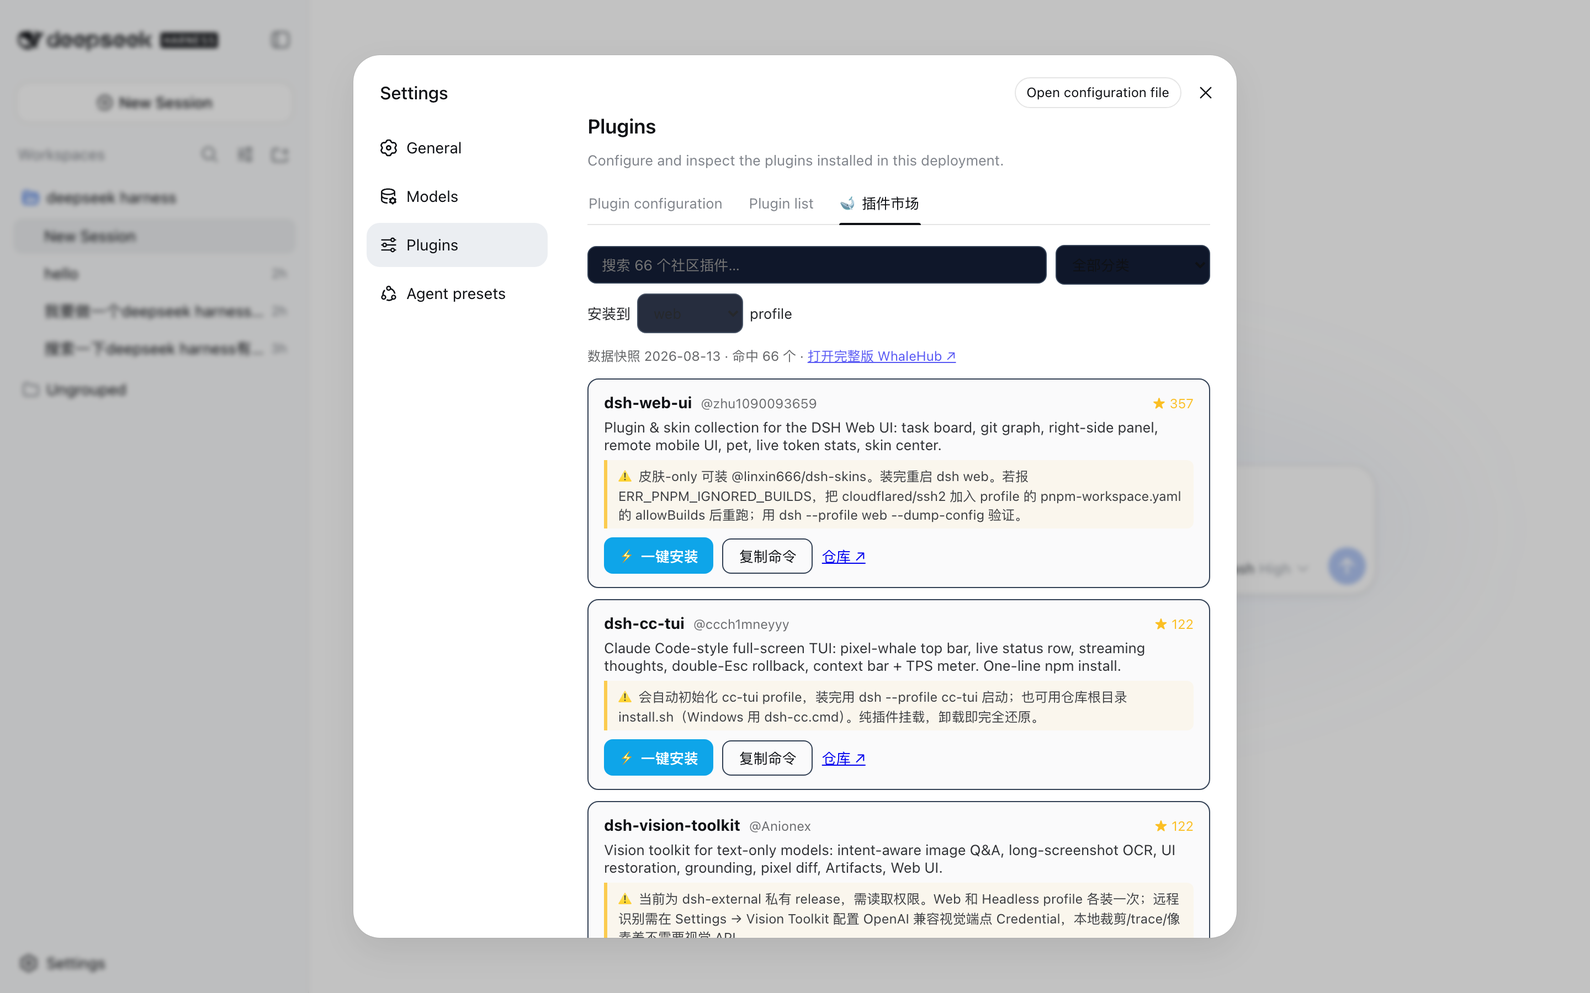
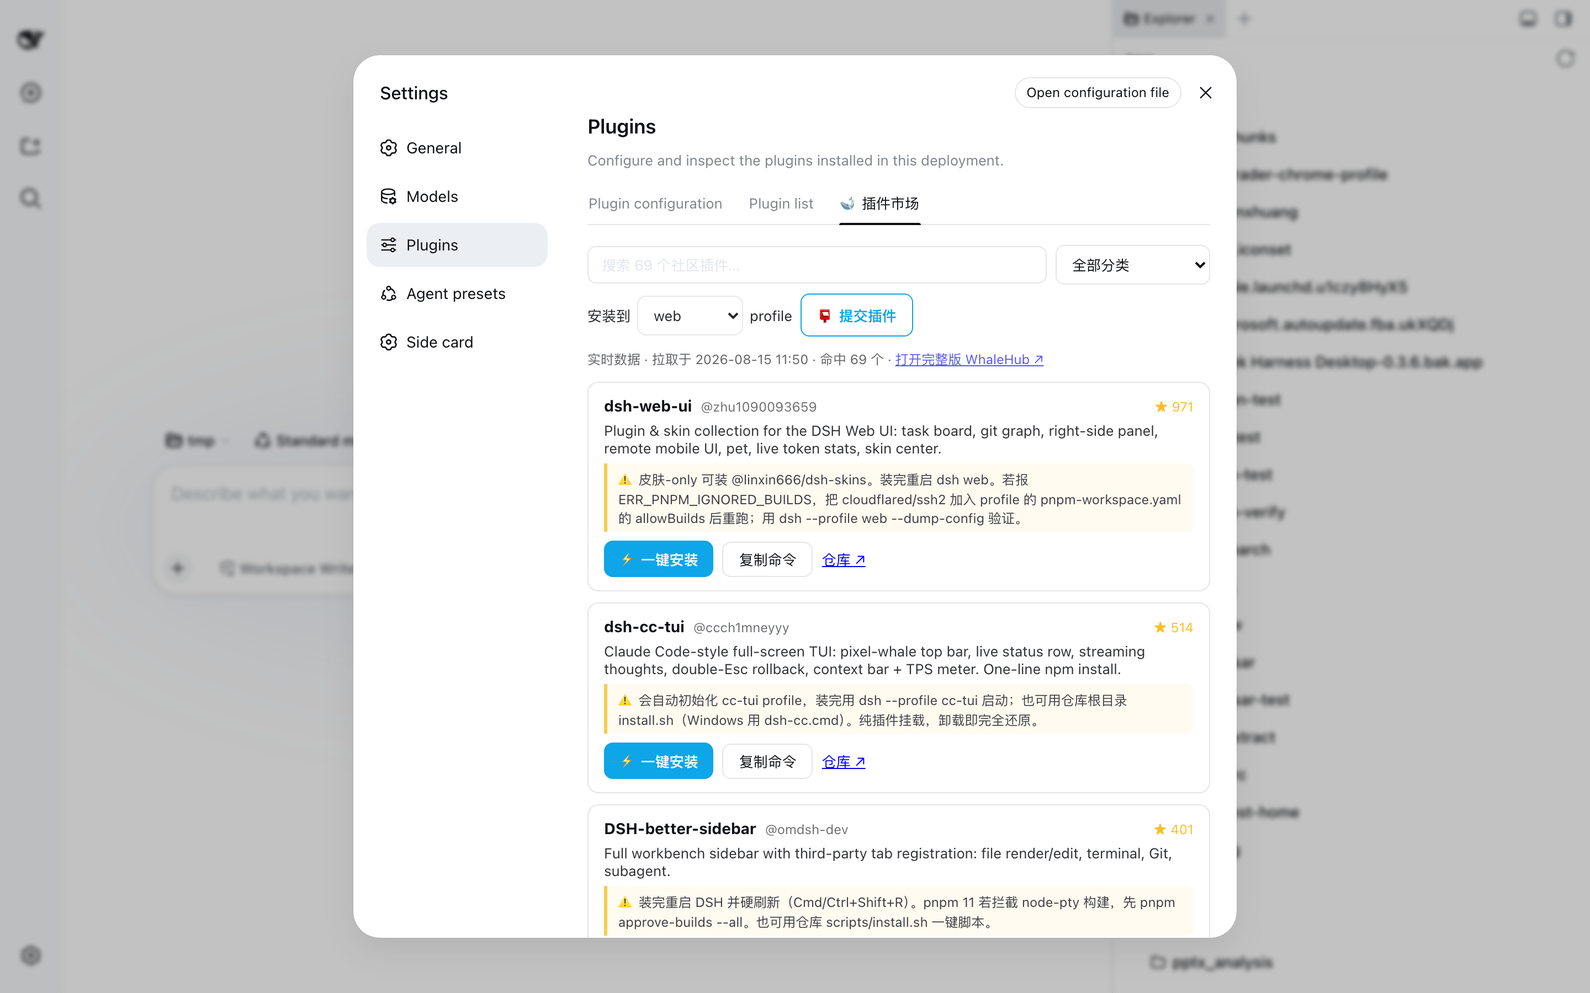
fix(plugin): 市场 Tab 适配 dsh web 明暗主题——颜色改用 --dsw-alias-* 设计令牌，更新市场截图

diff --git a/plugin/lib/client-registry.js b/plugin/lib/client-registry.js
@@ -431,7 +431,7 @@ window.__ModuleLoader__.load({
 		}
 		//#endregion
 		//#region \0whalehub-css:/Users/nxhuang/Documents/Project/kimi with paseo/whalehub-dsh/plugin/src/client/market.css.mjs
-		const css = ".whalehub-market { display: flex; flex-direction: column; gap: 12px; padding: 4px 0; font-size: 14px; }\n.whalehub-loading, .whalehub-error { padding: 24px 8px; opacity: 0.8; }\n.whalehub-toolbar { display: flex; gap: 8px; flex-wrap: wrap; align-items: center; }\n.whalehub-search {\n  flex: 1; min-width: 220px; padding: 8px 12px; border-radius: 8px;\n  border: 1px solid var(--dsh-border, #334155); background: var(--dsh-bg-soft, #0f172a);\n  color: inherit; font-size: 13px;\n}\n.whalehub-toolbar select {\n  padding: 8px 10px; border-radius: 8px; border: 1px solid var(--dsh-border, #334155);\n  background: var(--dsh-bg-soft, #0f172a); color: inherit; font-size: 13px;\n}\n.whalehub-profile { display: flex; gap: 6px; align-items: center; font-size: 13px; opacity: 0.9; }\n.whalehub-meta { margin: 0; font-size: 12px; opacity: 0.65; }\n.whalehub-list { display: flex; flex-direction: column; gap: 10px; }\n.whalehub-card {\n  border: 1px solid var(--dsh-border, #334155); border-radius: 10px;\n  padding: 12px 14px; display: flex; flex-direction: column; gap: 6px;\n  background: var(--dsh-bg-card, rgba(148, 163, 184, 0.05));\n}\n.whalehub-card-head { display: flex; gap: 8px; align-items: baseline; }\n.whalehub-author { font-size: 12px; opacity: 0.6; flex: 1; }\n.whalehub-stars { font-size: 12px; color: #fbbf24; }\n.whalehub-desc { margin: 0; font-size: 13px; opacity: 0.85; }\n.whalehub-notes {\n  margin: 0; font-size: 12px; opacity: 0.8; border-left: 3px solid #fbbf24;\n  padding: 4px 10px; background: rgba(251, 191, 36, 0.08); border-radius: 0 6px 6px 0;\n}\n.whalehub-actions { display: flex; gap: 8px; align-items: center; margin-top: 2px; }\n.whalehub-actions button {\n  padding: 6px 14px; border-radius: 8px; border: none; cursor: pointer;\n  background: #0ea5e9; color: #fff; font-size: 13px; font-weight: 600;\n}\n.whalehub-actions button:disabled { opacity: 0.6; cursor: wait; }\n.whalehub-actions button.whalehub-copy {\n  background: transparent; border: 1px solid var(--dsh-border, #334155); color: inherit; font-weight: 400;\n}\n.whalehub-actions a { font-size: 13px; }\n.whalehub-ok { margin: 0; font-size: 12.5px; color: #34d399; }\n.whalehub-fail {\n  margin: 0; font-size: 12px; color: #f87171; white-space: pre-wrap; word-break: break-all;\n  max-height: 160px; overflow: auto; background: rgba(0,0,0,0.25); padding: 8px; border-radius: 6px;\n}\n\n/* 📮 提交插件按钮 + 规则弹窗 */\n.whalehub-submit {\n  padding: 8px 14px; border-radius: 8px; cursor: pointer; font-size: 13px; font-weight: 600;\n  border: 1px solid #0ea5e9; background: transparent; color: #0ea5e9;\n}\n.whalehub-modal-mask {\n  position: fixed; inset: 0; z-index: 1000; background: rgba(2, 6, 23, 0.6);\n  display: flex; align-items: center; justify-content: center; padding: 24px;\n}\n.whalehub-modal {\n  width: min(560px, 100%); max-height: 80vh; overflow: auto; border-radius: 12px;\n  border: 1px solid var(--dsh-border, #334155); background: var(--dsh-bg, #1e293b);\n  padding: 16px 20px; box-shadow: 0 20px 50px rgba(0, 0, 0, 0.45);\n}\n.whalehub-modal-head {\n  display: flex; align-items: center; justify-content: space-between;\n  font-size: 15px; margin-bottom: 8px;\n}\n.whalehub-modal-close {\n  border: none; background: transparent; color: inherit; cursor: pointer;\n  font-size: 14px; opacity: 0.7; padding: 4px 8px;\n}\n.whalehub-modal-close:hover { opacity: 1; }\n.whalehub-modal-body { font-size: 13px; line-height: 1.6; }\n.whalehub-modal-body h4 { margin: 14px 0 6px; font-size: 13.5px; }\n.whalehub-modal-body ol, .whalehub-modal-body ul { margin: 4px 0; padding-left: 22px; }\n.whalehub-modal-body p { margin: 6px 0; }\n.whalehub-modal-meta { font-size: 12px; opacity: 0.65; margin-top: 14px; }\n.whalehub-modal-loading, .whalehub-modal-error { padding: 16px 0; font-size: 13px; opacity: 0.85; }\n.whalehub-modal-error { color: #f87171; }\n\n/* 安装成功后的重启提示条 */\n.whalehub-restart-bar {\n  display: flex; gap: 10px; align-items: center; flex-wrap: wrap;\n  border: 1px solid rgba(52, 211, 153, 0.4); border-radius: 10px;\n  background: rgba(52, 211, 153, 0.08); padding: 10px 14px; font-size: 13px;\n}\n.whalehub-restart-bar button {\n  padding: 6px 14px; border-radius: 8px; border: none; cursor: pointer;\n  background: #34d399; color: #052e1b; font-size: 13px; font-weight: 600;\n}\n.whalehub-restart-bar button.whalehub-later {\n  background: transparent; border: 1px solid var(--dsh-border, #334155);\n  color: inherit; font-weight: 400;\n}\n";
+		const css = "/* WhaleHub 市场 Tab 样式。\n * 颜色全部走 dsh web 的设计令牌（--dsw-alias-*，定义在 body / body[data-ds-dark-theme] 上），\n * 明/暗主题自动跟随；变量缺失时的兜底值按亮色取（dsh web 默认主题为亮）。 */\n.whalehub-market { display: flex; flex-direction: column; gap: 12px; padding: 4px 0; font-size: 14px; }\n.whalehub-loading, .whalehub-error { padding: 24px 8px; opacity: 0.8; }\n.whalehub-toolbar { display: flex; gap: 8px; flex-wrap: wrap; align-items: center; }\n.whalehub-search {\n  flex: 1; min-width: 220px; padding: 8px 12px; border-radius: 8px;\n  border: 1px solid var(--dsw-alias-border-l2, #cbd5e1);\n  background: var(--dsw-alias-bg-layer-1, #ffffff);\n  color: var(--dsw-alias-label-primary, inherit); font-size: 13px;\n}\n.whalehub-search::placeholder { color: var(--dsw-alias-label-dimmed, #94a3b8); }\n.whalehub-toolbar select {\n  padding: 8px 10px; border-radius: 8px;\n  border: 1px solid var(--dsw-alias-border-l2, #cbd5e1);\n  background: var(--dsw-alias-bg-layer-1, #ffffff);\n  color: var(--dsw-alias-label-primary, inherit); font-size: 13px;\n}\n.whalehub-profile { display: flex; gap: 6px; align-items: center; font-size: 13px; opacity: 0.9; }\n.whalehub-meta { margin: 0; font-size: 12px; opacity: 0.65; }\n.whalehub-list { display: flex; flex-direction: column; gap: 10px; }\n.whalehub-card {\n  border: 1px solid var(--dsw-alias-border-l2, #e2e8f0); border-radius: 10px;\n  padding: 12px 14px; display: flex; flex-direction: column; gap: 6px;\n  background: var(--dsw-alias-bg-layer-1, #ffffff);\n}\n.whalehub-card-head { display: flex; gap: 8px; align-items: baseline; }\n.whalehub-author { font-size: 12px; opacity: 0.6; flex: 1; }\n.whalehub-stars { font-size: 12px; color: #fbbf24; }\n.whalehub-desc { margin: 0; font-size: 13px; opacity: 0.85; }\n.whalehub-notes {\n  margin: 0; font-size: 12px; opacity: 0.8; border-left: 3px solid #fbbf24;\n  padding: 4px 10px; background: rgba(251, 191, 36, 0.08); border-radius: 0 6px 6px 0;\n}\n.whalehub-actions { display: flex; gap: 8px; align-items: center; margin-top: 2px; }\n.whalehub-actions button {\n  padding: 6px 14px; border-radius: 8px; border: none; cursor: pointer;\n  background: #0ea5e9; color: #fff; font-size: 13px; font-weight: 600;\n}\n.whalehub-actions button:disabled { opacity: 0.6; cursor: wait; }\n.whalehub-actions button.whalehub-copy {\n  background: transparent; border: 1px solid var(--dsw-alias-border-l2, #cbd5e1);\n  color: var(--dsw-alias-label-primary, inherit); font-weight: 400;\n}\n.whalehub-actions a { font-size: 13px; }\n.whalehub-ok { margin: 0; font-size: 12.5px; color: #34d399; }\n.whalehub-fail {\n  margin: 0; font-size: 12px; color: #f87171; white-space: pre-wrap; word-break: break-all;\n  max-height: 160px; overflow: auto; padding: 8px; border-radius: 6px;\n  background: var(--dsw-alias-bg-base, #f1f5f9);\n  border: 1px solid var(--dsw-alias-border-l2, #e2e8f0);\n}\n\n/* 📮 提交插件按钮 + 规则弹窗 */\n.whalehub-submit {\n  padding: 8px 14px; border-radius: 8px; cursor: pointer; font-size: 13px; font-weight: 600;\n  border: 1px solid #0ea5e9; background: transparent; color: #0ea5e9;\n}\n.whalehub-modal-mask {\n  position: fixed; inset: 0; z-index: 1000; background: rgba(2, 6, 23, 0.6);\n  display: flex; align-items: center; justify-content: center; padding: 24px;\n}\n.whalehub-modal {\n  width: min(560px, 100%); max-height: 80vh; overflow: auto; border-radius: 12px;\n  border: 1px solid var(--dsw-alias-border-l2, #e2e8f0);\n  background: var(--dsw-alias-bg-layer-2, #ffffff);\n  color: var(--dsw-alias-label-primary, inherit);\n  padding: 16px 20px; box-shadow: 0 20px 50px rgba(0, 0, 0, 0.25);\n}\n.whalehub-modal-head {\n  display: flex; align-items: center; justify-content: space-between;\n  font-size: 15px; margin-bottom: 8px;\n}\n.whalehub-modal-close {\n  border: none; background: transparent; color: inherit; cursor: pointer;\n  font-size: 14px; opacity: 0.7; padding: 4px 8px;\n}\n.whalehub-modal-close:hover { opacity: 1; }\n.whalehub-modal-body { font-size: 13px; line-height: 1.6; }\n.whalehub-modal-body h4 { margin: 14px 0 6px; font-size: 13.5px; }\n.whalehub-modal-body ol, .whalehub-modal-body ul { margin: 4px 0; padding-left: 22px; }\n.whalehub-modal-body p { margin: 6px 0; }\n.whalehub-modal-meta { font-size: 12px; opacity: 0.65; margin-top: 14px; }\n.whalehub-modal-loading, .whalehub-modal-error { padding: 16px 0; font-size: 13px; opacity: 0.85; }\n.whalehub-modal-error { color: #f87171; }\n\n/* 安装成功后的重启提示条 */\n.whalehub-restart-bar {\n  display: flex; gap: 10px; align-items: center; flex-wrap: wrap;\n  border: 1px solid rgba(52, 211, 153, 0.4); border-radius: 10px;\n  background: rgba(52, 211, 153, 0.08); padding: 10px 14px; font-size: 13px;\n}\n.whalehub-restart-bar button {\n  padding: 6px 14px; border-radius: 8px; border: none; cursor: pointer;\n  background: #34d399; color: #052e1b; font-size: 13px; font-weight: 600;\n}\n.whalehub-restart-bar button.whalehub-later {\n  background: transparent; border: 1px solid var(--dsw-alias-border-l2, #cbd5e1);\n  color: var(--dsw-alias-label-primary, inherit); font-weight: 400;\n}\n";
 		if (typeof document !== "undefined" && !document.querySelector("style[data-plugin-css=\"vvlife/whalehub-market/market.css\"]")) {
 			const tag = document.createElement("style");
 			tag.dataset.pluginCss = "vvlife/whalehub-market/market.css";

diff --git a/plugin/lib/client.js b/plugin/lib/client.js
@@ -431,7 +431,7 @@ window.__ModuleLoader__.load({
 		}
 		//#endregion
 		//#region \0whalehub-css:/Users/nxhuang/Documents/Project/kimi with paseo/whalehub-dsh/plugin/src/client/market.css.mjs
-		const css = ".whalehub-market { display: flex; flex-direction: column; gap: 12px; padding: 4px 0; font-size: 14px; }\n.whalehub-loading, .whalehub-error { padding: 24px 8px; opacity: 0.8; }\n.whalehub-toolbar { display: flex; gap: 8px; flex-wrap: wrap; align-items: center; }\n.whalehub-search {\n  flex: 1; min-width: 220px; padding: 8px 12px; border-radius: 8px;\n  border: 1px solid var(--dsh-border, #334155); background: var(--dsh-bg-soft, #0f172a);\n  color: inherit; font-size: 13px;\n}\n.whalehub-toolbar select {\n  padding: 8px 10px; border-radius: 8px; border: 1px solid var(--dsh-border, #334155);\n  background: var(--dsh-bg-soft, #0f172a); color: inherit; font-size: 13px;\n}\n.whalehub-profile { display: flex; gap: 6px; align-items: center; font-size: 13px; opacity: 0.9; }\n.whalehub-meta { margin: 0; font-size: 12px; opacity: 0.65; }\n.whalehub-list { display: flex; flex-direction: column; gap: 10px; }\n.whalehub-card {\n  border: 1px solid var(--dsh-border, #334155); border-radius: 10px;\n  padding: 12px 14px; display: flex; flex-direction: column; gap: 6px;\n  background: var(--dsh-bg-card, rgba(148, 163, 184, 0.05));\n}\n.whalehub-card-head { display: flex; gap: 8px; align-items: baseline; }\n.whalehub-author { font-size: 12px; opacity: 0.6; flex: 1; }\n.whalehub-stars { font-size: 12px; color: #fbbf24; }\n.whalehub-desc { margin: 0; font-size: 13px; opacity: 0.85; }\n.whalehub-notes {\n  margin: 0; font-size: 12px; opacity: 0.8; border-left: 3px solid #fbbf24;\n  padding: 4px 10px; background: rgba(251, 191, 36, 0.08); border-radius: 0 6px 6px 0;\n}\n.whalehub-actions { display: flex; gap: 8px; align-items: center; margin-top: 2px; }\n.whalehub-actions button {\n  padding: 6px 14px; border-radius: 8px; border: none; cursor: pointer;\n  background: #0ea5e9; color: #fff; font-size: 13px; font-weight: 600;\n}\n.whalehub-actions button:disabled { opacity: 0.6; cursor: wait; }\n.whalehub-actions button.whalehub-copy {\n  background: transparent; border: 1px solid var(--dsh-border, #334155); color: inherit; font-weight: 400;\n}\n.whalehub-actions a { font-size: 13px; }\n.whalehub-ok { margin: 0; font-size: 12.5px; color: #34d399; }\n.whalehub-fail {\n  margin: 0; font-size: 12px; color: #f87171; white-space: pre-wrap; word-break: break-all;\n  max-height: 160px; overflow: auto; background: rgba(0,0,0,0.25); padding: 8px; border-radius: 6px;\n}\n\n/* 📮 提交插件按钮 + 规则弹窗 */\n.whalehub-submit {\n  padding: 8px 14px; border-radius: 8px; cursor: pointer; font-size: 13px; font-weight: 600;\n  border: 1px solid #0ea5e9; background: transparent; color: #0ea5e9;\n}\n.whalehub-modal-mask {\n  position: fixed; inset: 0; z-index: 1000; background: rgba(2, 6, 23, 0.6);\n  display: flex; align-items: center; justify-content: center; padding: 24px;\n}\n.whalehub-modal {\n  width: min(560px, 100%); max-height: 80vh; overflow: auto; border-radius: 12px;\n  border: 1px solid var(--dsh-border, #334155); background: var(--dsh-bg, #1e293b);\n  padding: 16px 20px; box-shadow: 0 20px 50px rgba(0, 0, 0, 0.45);\n}\n.whalehub-modal-head {\n  display: flex; align-items: center; justify-content: space-between;\n  font-size: 15px; margin-bottom: 8px;\n}\n.whalehub-modal-close {\n  border: none; background: transparent; color: inherit; cursor: pointer;\n  font-size: 14px; opacity: 0.7; padding: 4px 8px;\n}\n.whalehub-modal-close:hover { opacity: 1; }\n.whalehub-modal-body { font-size: 13px; line-height: 1.6; }\n.whalehub-modal-body h4 { margin: 14px 0 6px; font-size: 13.5px; }\n.whalehub-modal-body ol, .whalehub-modal-body ul { margin: 4px 0; padding-left: 22px; }\n.whalehub-modal-body p { margin: 6px 0; }\n.whalehub-modal-meta { font-size: 12px; opacity: 0.65; margin-top: 14px; }\n.whalehub-modal-loading, .whalehub-modal-error { padding: 16px 0; font-size: 13px; opacity: 0.85; }\n.whalehub-modal-error { color: #f87171; }\n\n/* 安装成功后的重启提示条 */\n.whalehub-restart-bar {\n  display: flex; gap: 10px; align-items: center; flex-wrap: wrap;\n  border: 1px solid rgba(52, 211, 153, 0.4); border-radius: 10px;\n  background: rgba(52, 211, 153, 0.08); padding: 10px 14px; font-size: 13px;\n}\n.whalehub-restart-bar button {\n  padding: 6px 14px; border-radius: 8px; border: none; cursor: pointer;\n  background: #34d399; color: #052e1b; font-size: 13px; font-weight: 600;\n}\n.whalehub-restart-bar button.whalehub-later {\n  background: transparent; border: 1px solid var(--dsh-border, #334155);\n  color: inherit; font-weight: 400;\n}\n";
+		const css = "/* WhaleHub 市场 Tab 样式。\n * 颜色全部走 dsh web 的设计令牌（--dsw-alias-*，定义在 body / body[data-ds-dark-theme] 上），\n * 明/暗主题自动跟随；变量缺失时的兜底值按亮色取（dsh web 默认主题为亮）。 */\n.whalehub-market { display: flex; flex-direction: column; gap: 12px; padding: 4px 0; font-size: 14px; }\n.whalehub-loading, .whalehub-error { padding: 24px 8px; opacity: 0.8; }\n.whalehub-toolbar { display: flex; gap: 8px; flex-wrap: wrap; align-items: center; }\n.whalehub-search {\n  flex: 1; min-width: 220px; padding: 8px 12px; border-radius: 8px;\n  border: 1px solid var(--dsw-alias-border-l2, #cbd5e1);\n  background: var(--dsw-alias-bg-layer-1, #ffffff);\n  color: var(--dsw-alias-label-primary, inherit); font-size: 13px;\n}\n.whalehub-search::placeholder { color: var(--dsw-alias-label-dimmed, #94a3b8); }\n.whalehub-toolbar select {\n  padding: 8px 10px; border-radius: 8px;\n  border: 1px solid var(--dsw-alias-border-l2, #cbd5e1);\n  background: var(--dsw-alias-bg-layer-1, #ffffff);\n  color: var(--dsw-alias-label-primary, inherit); font-size: 13px;\n}\n.whalehub-profile { display: flex; gap: 6px; align-items: center; font-size: 13px; opacity: 0.9; }\n.whalehub-meta { margin: 0; font-size: 12px; opacity: 0.65; }\n.whalehub-list { display: flex; flex-direction: column; gap: 10px; }\n.whalehub-card {\n  border: 1px solid var(--dsw-alias-border-l2, #e2e8f0); border-radius: 10px;\n  padding: 12px 14px; display: flex; flex-direction: column; gap: 6px;\n  background: var(--dsw-alias-bg-layer-1, #ffffff);\n}\n.whalehub-card-head { display: flex; gap: 8px; align-items: baseline; }\n.whalehub-author { font-size: 12px; opacity: 0.6; flex: 1; }\n.whalehub-stars { font-size: 12px; color: #fbbf24; }\n.whalehub-desc { margin: 0; font-size: 13px; opacity: 0.85; }\n.whalehub-notes {\n  margin: 0; font-size: 12px; opacity: 0.8; border-left: 3px solid #fbbf24;\n  padding: 4px 10px; background: rgba(251, 191, 36, 0.08); border-radius: 0 6px 6px 0;\n}\n.whalehub-actions { display: flex; gap: 8px; align-items: center; margin-top: 2px; }\n.whalehub-actions button {\n  padding: 6px 14px; border-radius: 8px; border: none; cursor: pointer;\n  background: #0ea5e9; color: #fff; font-size: 13px; font-weight: 600;\n}\n.whalehub-actions button:disabled { opacity: 0.6; cursor: wait; }\n.whalehub-actions button.whalehub-copy {\n  background: transparent; border: 1px solid var(--dsw-alias-border-l2, #cbd5e1);\n  color: var(--dsw-alias-label-primary, inherit); font-weight: 400;\n}\n.whalehub-actions a { font-size: 13px; }\n.whalehub-ok { margin: 0; font-size: 12.5px; color: #34d399; }\n.whalehub-fail {\n  margin: 0; font-size: 12px; color: #f87171; white-space: pre-wrap; word-break: break-all;\n  max-height: 160px; overflow: auto; padding: 8px; border-radius: 6px;\n  background: var(--dsw-alias-bg-base, #f1f5f9);\n  border: 1px solid var(--dsw-alias-border-l2, #e2e8f0);\n}\n\n/* 📮 提交插件按钮 + 规则弹窗 */\n.whalehub-submit {\n  padding: 8px 14px; border-radius: 8px; cursor: pointer; font-size: 13px; font-weight: 600;\n  border: 1px solid #0ea5e9; background: transparent; color: #0ea5e9;\n}\n.whalehub-modal-mask {\n  position: fixed; inset: 0; z-index: 1000; background: rgba(2, 6, 23, 0.6);\n  display: flex; align-items: center; justify-content: center; padding: 24px;\n}\n.whalehub-modal {\n  width: min(560px, 100%); max-height: 80vh; overflow: auto; border-radius: 12px;\n  border: 1px solid var(--dsw-alias-border-l2, #e2e8f0);\n  background: var(--dsw-alias-bg-layer-2, #ffffff);\n  color: var(--dsw-alias-label-primary, inherit);\n  padding: 16px 20px; box-shadow: 0 20px 50px rgba(0, 0, 0, 0.25);\n}\n.whalehub-modal-head {\n  display: flex; align-items: center; justify-content: space-between;\n  font-size: 15px; margin-bottom: 8px;\n}\n.whalehub-modal-close {\n  border: none; background: transparent; color: inherit; cursor: pointer;\n  font-size: 14px; opacity: 0.7; padding: 4px 8px;\n}\n.whalehub-modal-close:hover { opacity: 1; }\n.whalehub-modal-body { font-size: 13px; line-height: 1.6; }\n.whalehub-modal-body h4 { margin: 14px 0 6px; font-size: 13.5px; }\n.whalehub-modal-body ol, .whalehub-modal-body ul { margin: 4px 0; padding-left: 22px; }\n.whalehub-modal-body p { margin: 6px 0; }\n.whalehub-modal-meta { font-size: 12px; opacity: 0.65; margin-top: 14px; }\n.whalehub-modal-loading, .whalehub-modal-error { padding: 16px 0; font-size: 13px; opacity: 0.85; }\n.whalehub-modal-error { color: #f87171; }\n\n/* 安装成功后的重启提示条 */\n.whalehub-restart-bar {\n  display: flex; gap: 10px; align-items: center; flex-wrap: wrap;\n  border: 1px solid rgba(52, 211, 153, 0.4); border-radius: 10px;\n  background: rgba(52, 211, 153, 0.08); padding: 10px 14px; font-size: 13px;\n}\n.whalehub-restart-bar button {\n  padding: 6px 14px; border-radius: 8px; border: none; cursor: pointer;\n  background: #34d399; color: #052e1b; font-size: 13px; font-weight: 600;\n}\n.whalehub-restart-bar button.whalehub-later {\n  background: transparent; border: 1px solid var(--dsw-alias-border-l2, #cbd5e1);\n  color: var(--dsw-alias-label-primary, inherit); font-weight: 400;\n}\n";
 		if (typeof document !== "undefined" && !document.querySelector("style[data-plugin-css=\"whalehub-market/market.css\"]")) {
 			const tag = document.createElement("style");
 			tag.dataset.pluginCss = "whalehub-market/market.css";

diff --git a/plugin/src/client/market.css b/plugin/src/client/market.css
@@ -1,22 +1,29 @@
+/* WhaleHub 市场 Tab 样式。
+ * 颜色全部走 dsh web 的设计令牌（--dsw-alias-*，定义在 body / body[data-ds-dark-theme] 上），
+ * 明/暗主题自动跟随；变量缺失时的兜底值按亮色取（dsh web 默认主题为亮）。 */
 .whalehub-market { display: flex; flex-direction: column; gap: 12px; padding: 4px 0; font-size: 14px; }
 .whalehub-loading, .whalehub-error { padding: 24px 8px; opacity: 0.8; }
 .whalehub-toolbar { display: flex; gap: 8px; flex-wrap: wrap; align-items: center; }
 .whalehub-search {
   flex: 1; min-width: 220px; padding: 8px 12px; border-radius: 8px;
-  border: 1px solid var(--dsh-border, #334155); background: var(--dsh-bg-soft, #0f172a);
-  color: inherit; font-size: 13px;
+  border: 1px solid var(--dsw-alias-border-l2, #cbd5e1);
+  background: var(--dsw-alias-bg-layer-1, #ffffff);
+  color: var(--dsw-alias-label-primary, inherit); font-size: 13px;
 }
+.whalehub-search::placeholder { color: var(--dsw-alias-label-dimmed, #94a3b8); }
 .whalehub-toolbar select {
-  padding: 8px 10px; border-radius: 8px; border: 1px solid var(--dsh-border, #334155);
-  background: var(--dsh-bg-soft, #0f172a); color: inherit; font-size: 13px;
+  padding: 8px 10px; border-radius: 8px;
+  border: 1px solid var(--dsw-alias-border-l2, #cbd5e1);
+  background: var(--dsw-alias-bg-layer-1, #ffffff);
+  color: var(--dsw-alias-label-primary, inherit); font-size: 13px;
 }
 .whalehub-profile { display: flex; gap: 6px; align-items: center; font-size: 13px; opacity: 0.9; }
 .whalehub-meta { margin: 0; font-size: 12px; opacity: 0.65; }
 .whalehub-list { display: flex; flex-direction: column; gap: 10px; }
 .whalehub-card {
-  border: 1px solid var(--dsh-border, #334155); border-radius: 10px;
+  border: 1px solid var(--dsw-alias-border-l2, #e2e8f0); border-radius: 10px;
   padding: 12px 14px; display: flex; flex-direction: column; gap: 6px;
-  background: var(--dsh-bg-card, rgba(148, 163, 184, 0.05));
+  background: var(--dsw-alias-bg-layer-1, #ffffff);
 }
 .whalehub-card-head { display: flex; gap: 8px; align-items: baseline; }
 .whalehub-author { font-size: 12px; opacity: 0.6; flex: 1; }
@@ -33,13 +40,16 @@
 }
 .whalehub-actions button:disabled { opacity: 0.6; cursor: wait; }
 .whalehub-actions button.whalehub-copy {
-  background: transparent; border: 1px solid var(--dsh-border, #334155); color: inherit; font-weight: 400;
+  background: transparent; border: 1px solid var(--dsw-alias-border-l2, #cbd5e1);
+  color: var(--dsw-alias-label-primary, inherit); font-weight: 400;
 }
 .whalehub-actions a { font-size: 13px; }
 .whalehub-ok { margin: 0; font-size: 12.5px; color: #34d399; }
 .whalehub-fail {
   margin: 0; font-size: 12px; color: #f87171; white-space: pre-wrap; word-break: break-all;
-  max-height: 160px; overflow: auto; background: rgba(0,0,0,0.25); padding: 8px; border-radius: 6px;
+  max-height: 160px; overflow: auto; padding: 8px; border-radius: 6px;
+  background: var(--dsw-alias-bg-base, #f1f5f9);
+  border: 1px solid var(--dsw-alias-border-l2, #e2e8f0);
 }
 
 /* 📮 提交插件按钮 + 规则弹窗 */
@@ -53,8 +63,10 @@
 }
 .whalehub-modal {
   width: min(560px, 100%); max-height: 80vh; overflow: auto; border-radius: 12px;
-  border: 1px solid var(--dsh-border, #334155); background: var(--dsh-bg, #1e293b);
-  padding: 16px 20px; box-shadow: 0 20px 50px rgba(0, 0, 0, 0.45);
+  border: 1px solid var(--dsw-alias-border-l2, #e2e8f0);
+  background: var(--dsw-alias-bg-layer-2, #ffffff);
+  color: var(--dsw-alias-label-primary, inherit);
+  padding: 16px 20px; box-shadow: 0 20px 50px rgba(0, 0, 0, 0.25);
 }
 .whalehub-modal-head {
   display: flex; align-items: center; justify-content: space-between;
@@ -84,6 +96,6 @@
   background: #34d399; color: #052e1b; font-size: 13px; font-weight: 600;
 }
 .whalehub-restart-bar button.whalehub-later {
-  background: transparent; border: 1px solid var(--dsh-border, #334155);
-  color: inherit; font-weight: 400;
+  background: transparent; border: 1px solid var(--dsw-alias-border-l2, #cbd5e1);
+  color: var(--dsw-alias-label-primary, inherit); font-weight: 400;
 }
